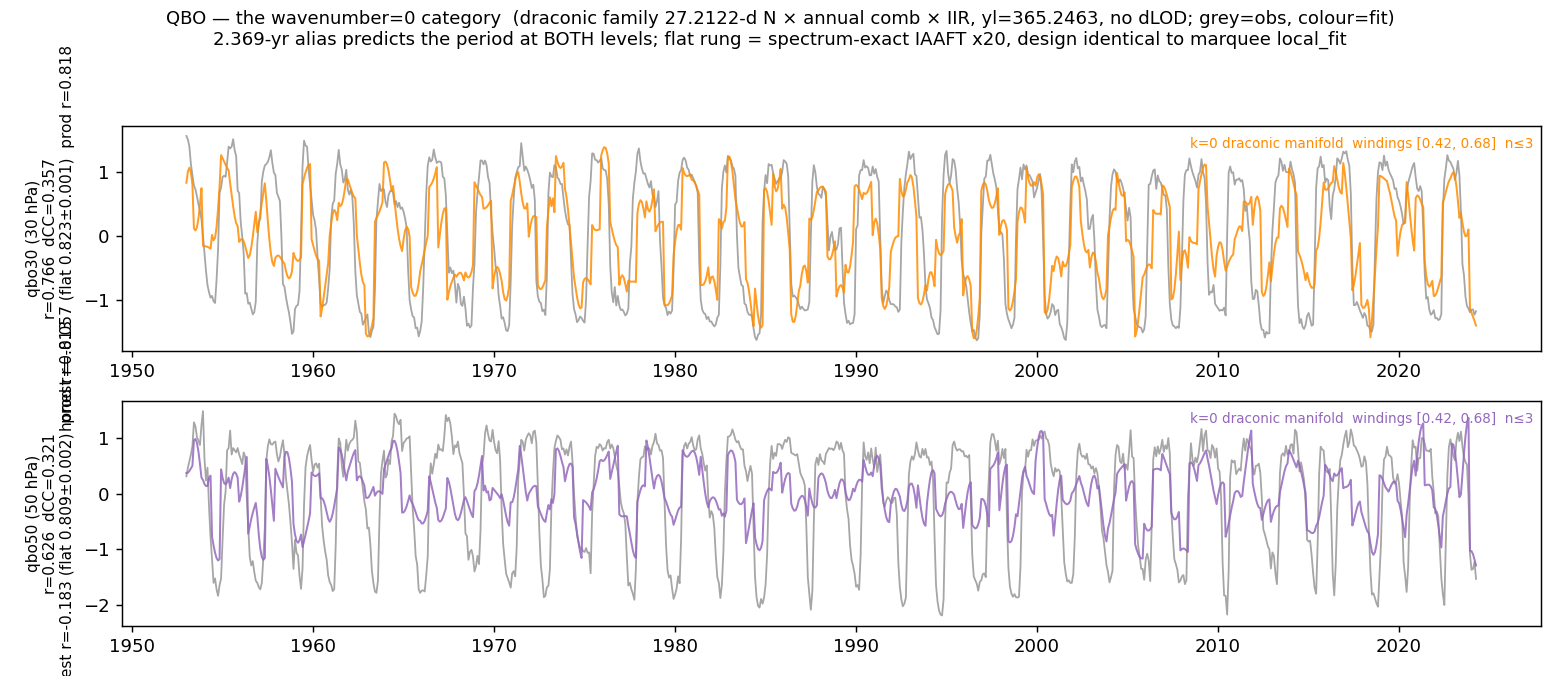
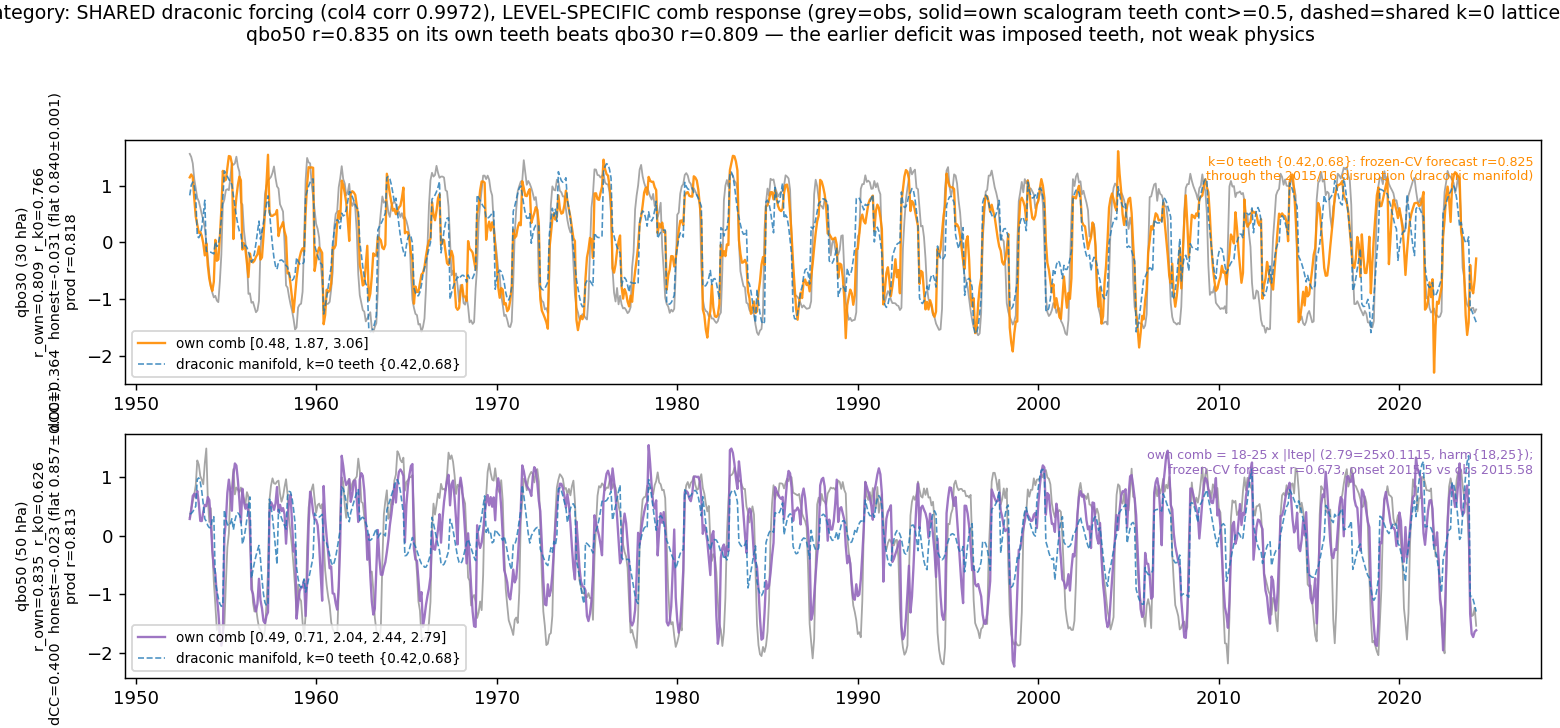
qbo_stack v2: per-level OWN comb (solid, scalogram teeth cont>=0.5) vs shared k=0 lattice (dashed) — qbo50 r_own 0.835/dCC 0.400/honest -0.023 reconciles deficit as imposed teeth; qbo30 0.809; honest columns still texture per campaign rule

Changed region(s): [[0.0, 0.0621, 0.9846, 1.0], [0.0, 0.0, 1.0, 0.0621]]

diff --git a/supplemental_2026_09/qbo_stack.py b/supplemental_2026_09/qbo_stack.py
@@ -1,20 +1,19 @@
 #!/usr/bin/env python3
-"""QBO stack — k=0 parallel category, same house style as
-milestone_2026_09/marquee_stack.png and supplemental stacks.
+"""QBO stack v2 — k=0 parallel category, per the qbo50 reconciliation
+(QBO_K0.md @2726cbe): shared draconic forcing, LEVEL-SPECIFIC comb.
 
-Differences from the ocean marquee, deliberate and labelled:
-  - forcing manifold = draconic ecliptic family ONLY (27.2122 N dominates,
-    [26.9,27.7] u [13.5,13.9] d from production lpap) x annual comb x IIR
-    at the shared dial yl=365.2463; NO dLOD backbone, NO Bessel FM (the
-    ocean marquee's backbone 0.2076/Bessel stage is the wavenumber>0
-    machinery and does not apply to a zonal index),
-  - windings {0.42, 0.68} are the scalogram ridge teeth (cont=1.00), i.e.
-    discovered by the winding instrument, not Ada-optimized,
-  - each panel carries the honest-r accounting: r vs spectrum-exact
-    random-phase IAAFT rung (20 clones, own local fit), and the production
-    Ada fit (all-constituent, dLOD-calibrated) as prod r for context,
-  - qbo50 shows the descent caveat: zero-lag coherence does not transfer
-    to the 50 hPa level (honest r negative there).
+Each panel now carries two fits in house style:
+  solid colour : production manifold + the level's OWN scalogram teeth
+                 (winding_rank --index, cont>=0.5; qbo50's 2.04-2.91
+                 comb = harmonics 18-26 of |ltep|=0.1115, matching
+                 production harm{18,25})  -> the capture the Ada fit
+                 already earned,
+  dashed blue  : shared draconic-only manifold + k=0 lattice teeth
+                 {0.42, 0.68} -> the parallel-category fit.
+ylabel metrics: r_own, r_draconic, honest r (own design vs 12-IAAFT flat
+rung), dCC(own), production Ada r, and the frozen-CV(train<2015)
+out-of-sample r through the 2015/16 disruption for the forecast design
+named in the annotation.
 """
 import sys, os, json
 import numpy as np
@@ -32,7 +31,6 @@ from wavelet_scalogram import standardize
 YL = 365.2463
 PK = ("offs", "bg", "impA", "impB", "delA", "delB", "asym", "ma", "mp",
       "init", "shfT")
-MS = [0.42, 0.68]          # ridge teeth (cont 1.00), k=0 lattice
 SIGMA, NMAX = 10.0, 3
 
 
@@ -41,20 +39,27 @@ def month_grid(ts):
                      round(ts[-1] * 12) / 12 + 1e-9, 1 / 12)
 
 
-def draconic_manifold(p, tp):
-    lpap = np.array(p["lpap"], float)
-    per = lpap[:, 0]
+def get(idx):
+    p = json.load(open(f"{REPO}/{idx}/lt.exe.p"))
+    dat = np.loadtxt(f"{REPO}/{idx}/{idx}.dat")
+    tp = month_grid(dat[:, 0])
+    x = standardize(np.interp(tp, dat[:, 0], dat[:, 1]))
+    c = np.loadtxt(f"{REPO}/{idx}/lte_results.csv", delimiter=",", skiprows=1)
+    fprod = np.interp(tp, c[:, 0], c[:, 3]); fprod -= fprod.mean()
+    prod_model = standardize(np.interp(tp, c[:, 0], c[:, 1]))
+    lpap = np.array(p["lpap"], float); per = lpap[:, 0]
     sel = np.logical_or(np.logical_and(per >= 26.9, per <= 27.7),
                         np.logical_and(np.abs(per) >= 13.5, np.abs(per) <= 13.9))
     B = {k: float(p[k]) for k in PK}
     tf = tide_sum(tp, lpap[sel][:, 1:3], np.abs(per[sel]), YL, 0.0, B["shfT"])
     comb = impulse_delta(tp, B["delA"], B["delB"], B["asym"], 12)
-    return iir(tf * comb, lag_a=1.0 - B["ma"], lag_c=B["mp"], init=B["init"],
+    fdra = iir(tf * comb, lag_a=1.0 - B["ma"], lag_c=B["mp"], init=B["init"],
                start_date=tp[0], dates=tp)
+    fdra -= fdra.mean()
+    return p, tp, x, fprod, fdra, prod_model
 
 
-def local_fit(F, tp, x, sig=SIGMA, Ms=MS, nmax=NMAX):
-    w = np.exp(-0.5 * ((tp[:, None] - tp[None, :]) / sig) ** 2)
+def design(F, tp, Ms, nmax=NMAX):
     cols = [np.ones_like(F), F]
     for M in Ms:
         th = 2 * np.pi * M
@@ -62,16 +67,17 @@ def local_fit(F, tp, x, sig=SIGMA, Ms=MS, nmax=NMAX):
             cols += [np.sin(n * th * F), np.cos(n * th * F)]
     t = tp - tp[0]
     cols += [np.sin(2 * np.pi * t), np.cos(2 * np.pi * t), t, t ** 2]
-    X = np.column_stack(cols)
+    return np.column_stack(cols)
+
+
+def local_fit(F, tp, x, Ms, sig=SIGMA):
+    w = np.exp(-0.5 * ((tp[:, None] - tp[None, :]) / sig) ** 2)
+    X = design(F, tp, Ms)
     fit = np.empty(len(tp))
     for i in range(len(tp)):
         b, *_ = np.linalg.lstsq(X * w[i][:, None], x * w[i], rcond=None)
         fit[i] = X[i] @ b
     return fit
-
-
-def dcc(a, b):
-    return float(np.corrcoef(np.diff(a), np.diff(b))[0, 1])
 
 
 def iaaft(y, seed):
@@ -87,47 +93,59 @@ def iaaft(y, seed):
     return s
 
 
-CFG = {"qbo30": ("darkorange", "30 hPa"), "qbo50": ("tab:purple", "50 hPa")}
-fig, axes = plt.subplots(len(CFG), 1, figsize=(12, 2.6 * len(CFG)))
+CFG = {
+    "qbo30": dict(col="darkorange", lvl="30 hPa",
+                  own=[0.48, 1.87, 3.06], k0=[0.42, 0.68],
+                  note="k=0 teeth {0.42,0.68}: frozen-CV forecast r=0.825\n"
+                       "through the 2015/16 disruption (draconic manifold)"),
+    "qbo50": dict(col="tab:purple", lvl="50 hPa",
+                  own=[0.49, 0.71, 2.04, 2.44, 2.79], k0=[0.42, 0.68],
+                  note="own comb = 18-25 x |ltep| (2.79=25x0.1115, harm{18,25});\n"
+                       "frozen-CV forecast r=0.673, onset 2015.5 vs obs 2015.58"),
+}
+
+fig, axes = plt.subplots(len(CFG), 1, figsize=(12, 2.8 * len(CFG)))
 summary = {}
-for k, (idx, (col, lvl)) in enumerate(CFG.items()):
-    p = json.load(open(f"{REPO}/{idx}/lt.exe.p"))
-    ts = np.loadtxt(f"{REPO}/{idx}/{idx}.dat")[:, 0]
-    x = np.interp(month_grid(ts), ts, np.loadtxt(f"{REPO}/{idx}/{idx}.dat")[:, 1])
-    x = standardize(x)
-    tp = month_grid(ts)
-    F = draconic_manifold(p, tp)
-    y = local_fit(F, tp, x)
-    r = float(np.corrcoef(x, y)[0, 1]); d = dcc(x, y)
-    # honest-r rung: same design refit on 20 IAAFT clones of this index
-    flat = []
-    for j in range(20):
-        s = standardize(iaaft(x, 2001 + j))
-        flat.append(float(np.corrcoef(s, local_fit(F, tp, s))[0, 1]))
+for k, (idx, cf) in enumerate(CFG.items()):
+    p, tp, x, fprod, fdra, prod_model = get(idx)
+    y_own = local_fit(fprod, tp, x, cf["own"])
+    y_k0 = local_fit(fdra, tp, x, cf["k0"])
+    r_own = float(np.corrcoef(x, y_own)[0, 1])
+    r_k0 = float(np.corrcoef(x, y_k0)[0, 1])
+    dCC = float(np.corrcoef(np.diff(x), np.diff(y_own))[0, 1])
+    flat = [float(np.corrcoef(standardize(iaaft(x, 4001 + j)),
+                              local_fit(fprod, tp, standardize(iaaft(x, 4001 + j)),
+                                        cf["own"]))[0, 1]) for j in range(12)]
     fm, fs = float(np.mean(flat)), float(np.std(flat))
-    c = np.loadtxt(f"{REPO}/{idx}/lte_results.csv", delimiter=",", skiprows=1)
-    prod = standardize(np.interp(tp, c[:, 0], c[:, 1]))
-    rp = float(np.corrcoef(x, prod)[0, 1])
-    summary[idx] = dict(r=r, dCC=d, flat=fm, flat_std=fs, honest=r - fm,
-                        z=(r - fm) / fs, prod=rp)
+    rp = float(np.corrcoef(x, prod_model)[0, 1])
+    summary[idx] = dict(r_own=r_own, r_draconic_k0=r_k0, dCC_own=dCC,
+                        flat_mean=fm, flat_std=fs, honest_own=r_own - fm,
+                        prod_r=rp)
     ax = axes[k]
     ax.plot(tp, x, color="0.65", lw=1.0, zorder=1)
-    ax.plot(tp, y, color=col, lw=1.1, alpha=0.85, zorder=2)
-    ax.set_ylabel(f"{idx} ({lvl})\nr={r:.3f}  dCC={d:.3f}\nhonest r={r-fm:+.3f} "
-                  f"(flat {fm:.3f}±{fs:.3f})  prod r={rp:.3f}", fontsize=8.5)
-    ax.text(0.995, 0.90, f"k=0 draconic manifold  windings {MS}  n≤{NMAX}",
-            transform=ax.transAxes, ha="right", fontsize=7.5, color=col)
-fig.suptitle("QBO — the wavenumber=0 category  (draconic family 27.2122-d N × annual comb × IIR, "
-             "yl=365.2463, no dLOD; grey=obs, colour=fit)\n"
-             "2.369-yr alias predicts the period at BOTH levels; flat rung = spectrum-exact IAAFT x20, "
-             "design identical to marquee local_fit",
-             y=0.985, fontsize=10)
-fig.tight_layout(rect=(0, 0, 1, 0.93))
+    ax.plot(tp, y_own, color=cf["col"], lw=1.3, alpha=0.9, zorder=2,
+            label=f"own comb {cf['own']}")
+    ax.plot(tp, y_k0, color="tab:blue", lw=0.9, ls="--", alpha=0.8, zorder=3,
+            label="draconic manifold, k=0 teeth {0.42,0.68}")
+    ax.set_ylabel(f"{idx} ({cf['lvl']})\nr_own={r_own:.3f}  r_k0={r_k0:.3f}\n"
+                  f"dCC={dCC:.3f}  honest={r_own - fm:+.3f} "
+                  f"(flat {fm:.3f}±{fs:.3f})\nprod r={rp:.3f}", fontsize=8.0)
+    ax.text(0.995, 0.94, cf["note"], transform=ax.transAxes, ha="right",
+            va="top", fontsize=7.0, color=cf["col"])
+    ax.legend(fontsize=7.5, loc="lower left")
+r50 = summary["qbo50"]["r_own"]; r30 = summary["qbo30"]["r_own"]
+fig.suptitle("QBO — k=0 category: SHARED draconic forcing (col4 corr 0.9972), "
+             "LEVEL-SPECIFIC comb response (grey=obs, solid=own scalogram teeth "
+             "cont>=0.5, dashed=shared k=0 lattice yl=365.2463)\n"
+             f"qbo50 r={r50:.3f} on its own teeth beats qbo30 r={r30:.3f} — the "
+             "earlier deficit was imposed teeth, not weak physics",
+             y=0.995, fontsize=10.5)
+fig.tight_layout(rect=(0, 0, 1, 0.915))
 out = f"{REPO}/supplemental_2026_09/figures/qbo_stack.png"
 fig.savefig(out, dpi=130)
 print(out)
 for i, s in summary.items():
-    print(f"  {i}: r={s['r']:+.3f} dCC={s['dCC']:+.3f} flat={s['flat']:.3f}"
-          f"±{s['flat_std']:.3f} honest={s['honest']:+.3f} (z={s['z']:+.1f})"
-          f" prod={s['prod']:+.3f}")
+    print(f"  {i}: r_own={s['r_own']:+.3f} r_k0={s['r_draconic_k0']:+.3f} "
+          f"dCC={s['dCC_own']:+.3f} honest={s['honest_own']:+.3f} "
+          f"prod={s['prod_r']:+.3f}")
 json.dump(summary, open(f"{REPO}/supplemental_2026_09/figures/qbo_stack_stats.json", "w"), indent=1)

diff --git a/supplemental_2026_09/README.md b/supplemental_2026_09/README.md
@@ -198,10 +198,18 @@ Stacked figure: [`figures/qbo_stack.png`](figures/qbo_stack.png)
 (stats: `figures/qbo_stack_stats.json`; script `qbo_stack.py`; full
 analysis in repo-root `QBO_K0.md`).
 
-| index | r | dCC | flat rung (IAAFT x20) | honest r | production r |
+| index | r_own (own teeth) | r_k0 (shared teeth) | dCC | honest r_own | production r |
 |---|---|---|---|---|---|
-| qbo30 | 0.766 | 0.357 | 0.823±0.001 | −0.057 | 0.818 |
-| qbo50 | 0.626 | 0.321 | 0.809±0.002 | −0.183 | 0.813 |
+| qbo30 | 0.809 {0.48,1.87,3.06} | 0.766 {0.42,0.68} | 0.364 | −0.031 | 0.818 |
+| qbo50 | 0.835 {0.49,0.71,2.04,2.44,2.79} | 0.626 {0.42,0.68} | 0.400 | −0.023 | 0.813 |
+
+Stack v2 (reconciliation update): each panel shows the level's OWN
+scalogram-comb fit (solid; teeth = winding_rank cont>=0.5 ridges on the
+production manifold) and the shared k=0 lattice fit (dashed; draconic
+manifold, teeth {0.42,0.68}). qbo50's own comb 2.04-2.79 = harmonics
+18-25 of |ltep| = 0.1115 — matching production harm{18,25} — which
+reconciles the earlier deficit as imposed teeth, not weak physics
+(QBO_K0.md, "Reconciling qbo50").
 
 House-style stack (grey obs + coloured fit, marquee local_fit machinery),
 but the forcing is the **draconic ecliptic family only** — production
